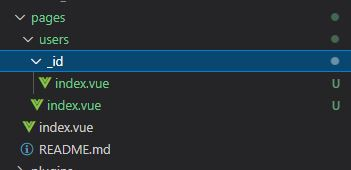
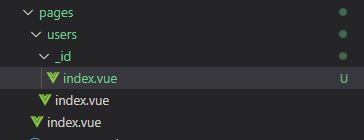
매개변수 검증 (validate method)

diff --git a/my-first-nuxt-app/pages/users/_id/index.vue b/my-first-nuxt-app/pages/users/_id/index.vue
@@ -1,0 +1,11 @@
+<template>
+    <h1>A single user, width ID: {{$route.params.id}}</h1>
+</template>
+
+<script>
+export default {
+    validate(data) {
+        return /^\d+$/.test(data.params.id);
+    }
+}
+</script>

diff --git a/note/Routing.md b/note/Routing.md
@@ -34,6 +34,17 @@
 또는 script에서 $router.push로 연결.<br/>
 <kbd><img src="images/routing/link-by-script.JPG"></kbd>
 
+<br/><br/>
+
+## 매개변수 검증
+
+`validate` 메서드로 매개 변수를 검증할 수 있다.<br/>
+
+<kbd><img src="images/routing/validate.JPG"></kbd>
+
+validate 메서드는 매개변수인 data에서 params, query, store 드의 정보를 얻을 수 있으며, 메서드에서 false를 반환하면 error 페이지로 이동한다.
+
+
 
 
 
